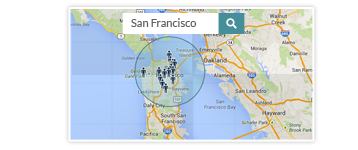
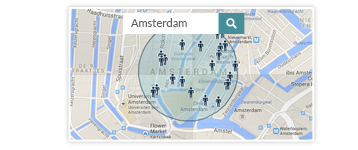
added new artwork

diff --git a/location-based-messaging/index.html b/location-based-messaging/index.html
@@ -8,7 +8,7 @@ text_kop: Location based messaging
 ---
 
 <div class="jumbotron">
-	<img class="feature-image img-float-right margin-left-15 img-responsive" src="/images/features/header_users.png" alt="Location based messaging">
+	<img class="feature-image img-float-right margin-left-15 img-responsive" src="/images/features/header_locationbased.png" alt="Location based messaging">
 	<div class="feature-content">
 		<h1>End-to-end solution for location tracking</h1>
 		<p class="lead">
@@ -21,7 +21,7 @@ text_kop: Location based messaging
 
 <div class="row features-row">
 	<div class="col-sm-6 col-lg-12">
-		<img class="img-float-left margin-right-15 img-responsive" data-src="holder.js/500x200/auto" alt="Generic placeholder image">
+		<img class="img-float-left margin-right-15 img-responsive" src="/images/features/locationbased_geotargeting.png" alt="Geo-Targeting">
 		<h2>Geo-Targeting</h2>
 		<p>
 			We made it extremely simple for your apps to use customers' location for categorizing and sending targeted messages that are both relevant and effective. Make a fine-grained selection of your target audience in specific neighborhoods. Learn and categorize your users by the places where they live or work. Easily search and select any position on the globe, define a radius and send rich and interactive messages that reach your customers exactly where they are.
@@ -47,7 +47,7 @@ text_kop: Location based messaging
 
 <div class="row features-row">
 	<div class="col-sm-6 col-lg-12">
-		<img class="img-float-right margin-left-15 img-responsive" data-src="holder.js/500x200/auto" alt="Generic placeholder image">
+		<img class="img-float-right margin-left-15 img-responsive" src="/images/features/locationbased_geofencing.png" alt="Geo-Fencing">
 		<h2>Geo-Fencing</h2>
 		<p>
 			With our SDK your app will be able to take advantage of the best functionality mobile platforms can offer. Remember, your users are on the move and we can give your application the power to reach them when the context is right. It has never been this easy to send rich and interactive content when your users enter or leave a certain area. Greet your customers, give them special offers or simply categorize them. A powerful solution any industry can benefit from.
@@ -79,7 +79,7 @@ text_kop: Location based messaging
 
 <div class="row features-row">
 	<div class="col-sm-6 col-lg-12">
-		<img class="img-float-left margin-right-15 img-responsive" data-src="holder.js/500x200/auto" alt="Generic placeholder image">
+		<img class="img-float-left margin-right-15 img-responsive" src="/images/features/locationbased_microlocation.png" alt="Micro-location &amp; content advertising">
 		<h2>Micro-location &amp; content advertising</h2>
 		<p>
 			With the ever-increasing number of personal connected devices like smart watches and fitness bands, which require mobile devices to be Bluetooth-enabled, we provide you with solutions to harness yet another channel. Using Notificare Bluetooth Low Energy beacons, your app can now gather information or present content when your customers are physically in your store or venue. Detect their proximity to display more information about the product they are looking at, either on their devices or on additional screens. 

diff --git a/features/index.html b/features/index.html
@@ -9,13 +9,23 @@ text_kop: Features
 {% for item in site.data.features %}
 {% if forloop.first %}
 <div class="jumbotron features-list">
-	<img class="feature-image img-float-right margin-left-15 img-responsive" src="/images/features/banner_home_intro.png" alt="Notifications just got smarter">
+	<img class="feature-image img-float-right margin-left-15 img-responsive" src="/images/features/main_header_locationbased.png" alt="Notifications just got smarter">
 	<div class="feature-content">
 		<h1>{{ item.title }}</h1>
 		<p class="lead">{{ item.description | newline_to_br }}</p>
 		<p><a class="btn btn-lg btn-success" href="{{ item.link.url }}" role="button">{{ item.link.text }}</a></p>
 	</div>
 </div>
+<div class="row features-row">
+	<div class="col-sm-12">
+		<h3>Smart push with context</h3>
+		<p>
+			A complete solution to acquire more customers, increase brand loyalty, maximize and up-sell. Deliver what your users what to hear, when they want to hear. Measure your users' in-app behaviour and how they interact with your physical products. 
+		</p>
+		<p><a class="btn btn-primary" href="/location-based-messaging" role="button">Learn more about location based messaging</a></p>
+	</div>
+</div>
+<hr class="features-divider">
 {% else %}
 {% if forloop.index == 2 or forloop.index == 5 or forloop.index == 8 %}<div class="row feature-row">{% endif %}
 	<div class="col-sm-4">

diff --git a/sass/templates/_features.sass b/sass/templates/_features.sass
@@ -8,7 +8,7 @@
 		background: white
 		
 		&.features-list
-			margin-bottom: 100px
+
 			
 			
 		.feature-image
